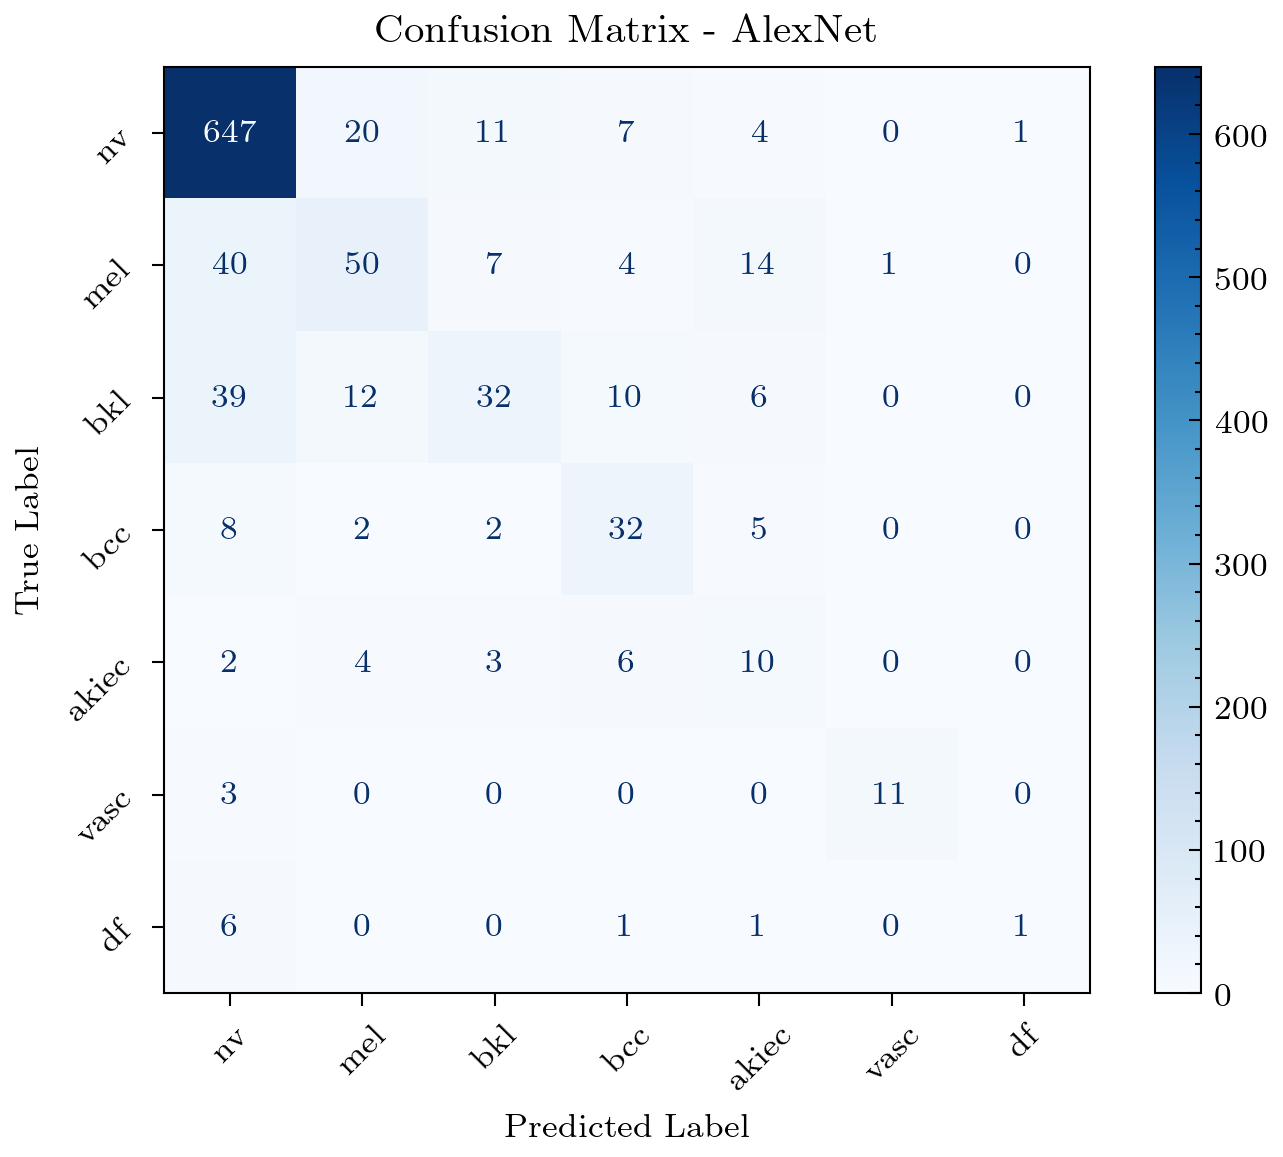
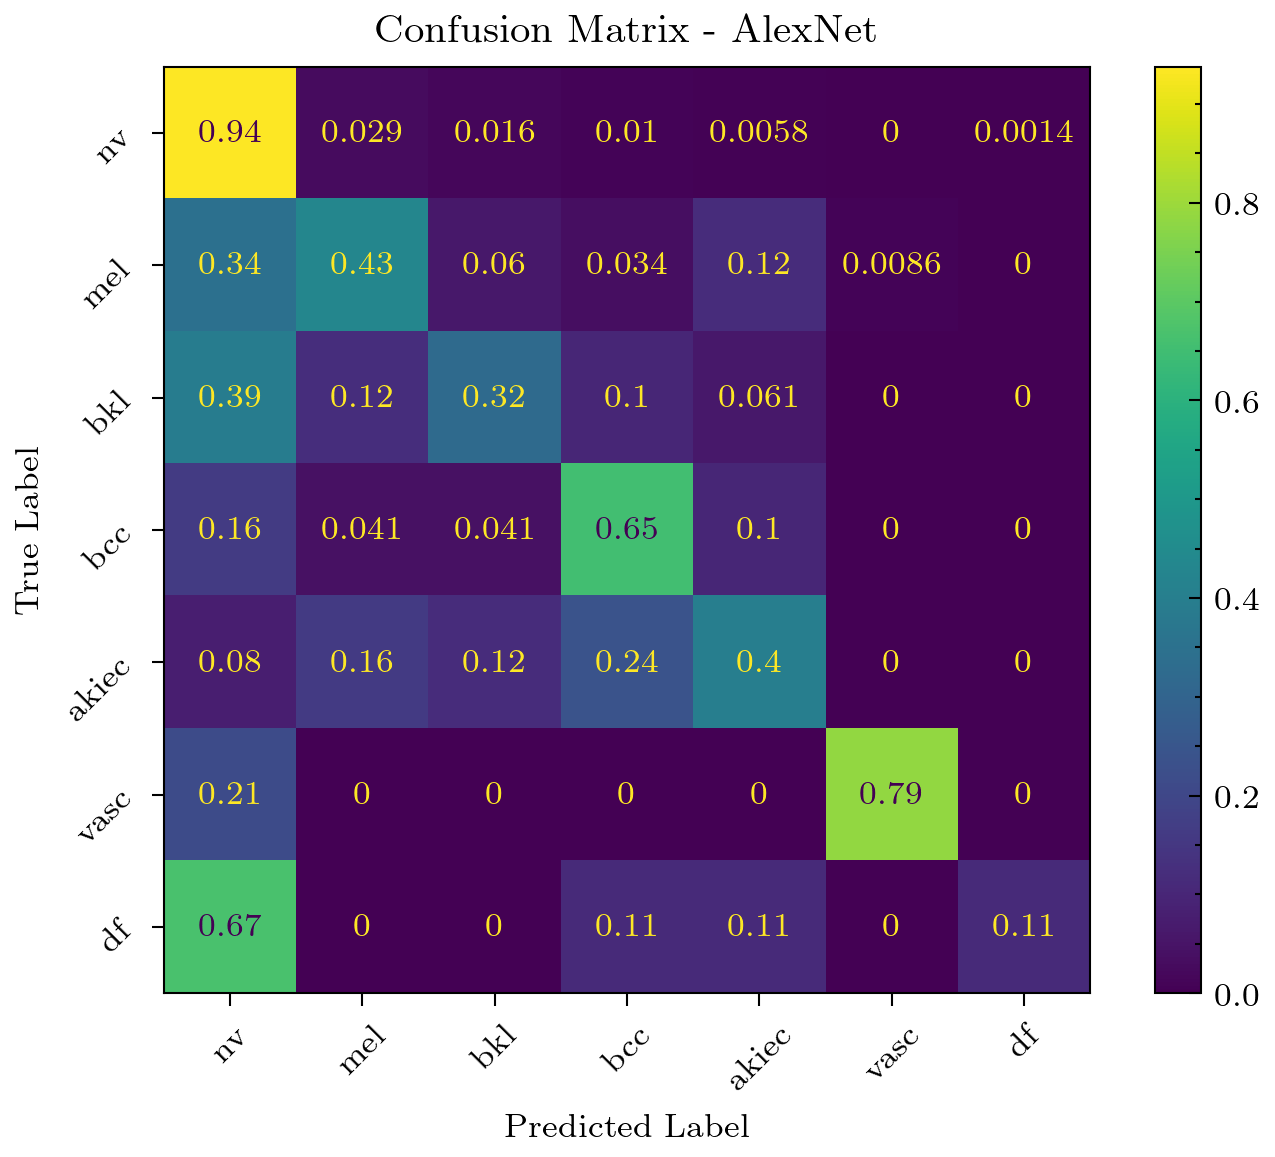
color map change for confusion matrices

diff --git a/utils/plot.py b/utils/plot.py
@@ -44,21 +44,21 @@ def plot_loss_curves(training_loss, validation_loss, directory, model):
         plt.close()
 
 
-def plot_confusion_matrix(predictions, labels, directory, model, lesion_types):
+def plot_confusion_matrix(predictions, labels, directory, model, lesion_types, normalize=True):
     if isinstance(predictions, torch.Tensor):
-        predictions = predictions.cpu()
+        predictions = predictions.cpu().numpy()
     if isinstance(labels, torch.Tensor):
-        labels = labels.cpu()
-    if isinstance(predictions, torch.Tensor):
-        predictions = predictions.numpy()
-    if isinstance(labels, torch.Tensor):
-        labels = labels.numpy()
+        labels = labels.cpu().numpy()
     matrix = confusion_matrix(labels, predictions)
     class_labels = lesion_types
+    if normalize:
+        matrix = matrix.astype('float') / matrix.sum(axis=1)[:, np.newaxis]
     with plt.style.context(['science', 'ieee']):
         fig, ax = plt.subplots(figsize=(5, 4))
+        cmap = plt.cm.Blues if not normalize else plt.cm.viridis
         disp = ConfusionMatrixDisplay(confusion_matrix=matrix, display_labels=class_labels)
-        disp.plot(ax=ax, cmap=plt.cm.Blues) 
+        disp.plot(ax=ax, cmap=cmap)
+        
         ax.set_xlabel('Predicted Label')
         ax.set_ylabel('True Label')
         plt.xticks(rotation=45)
@@ -68,6 +68,7 @@ def plot_confusion_matrix(predictions, labels, directory, model, lesion_types):
         ax.tick_params(axis='y',which='major', direction="out", left=True, right=False)
         plt.grid(False)
         plt.title("Confusion Matrix - {}".format(model))
+        
         plt.tight_layout()
         plt.savefig("{}/{}/{}".format(directory, model, "confusion_matrix_test_dataset.png"),
                     dpi=300, 
